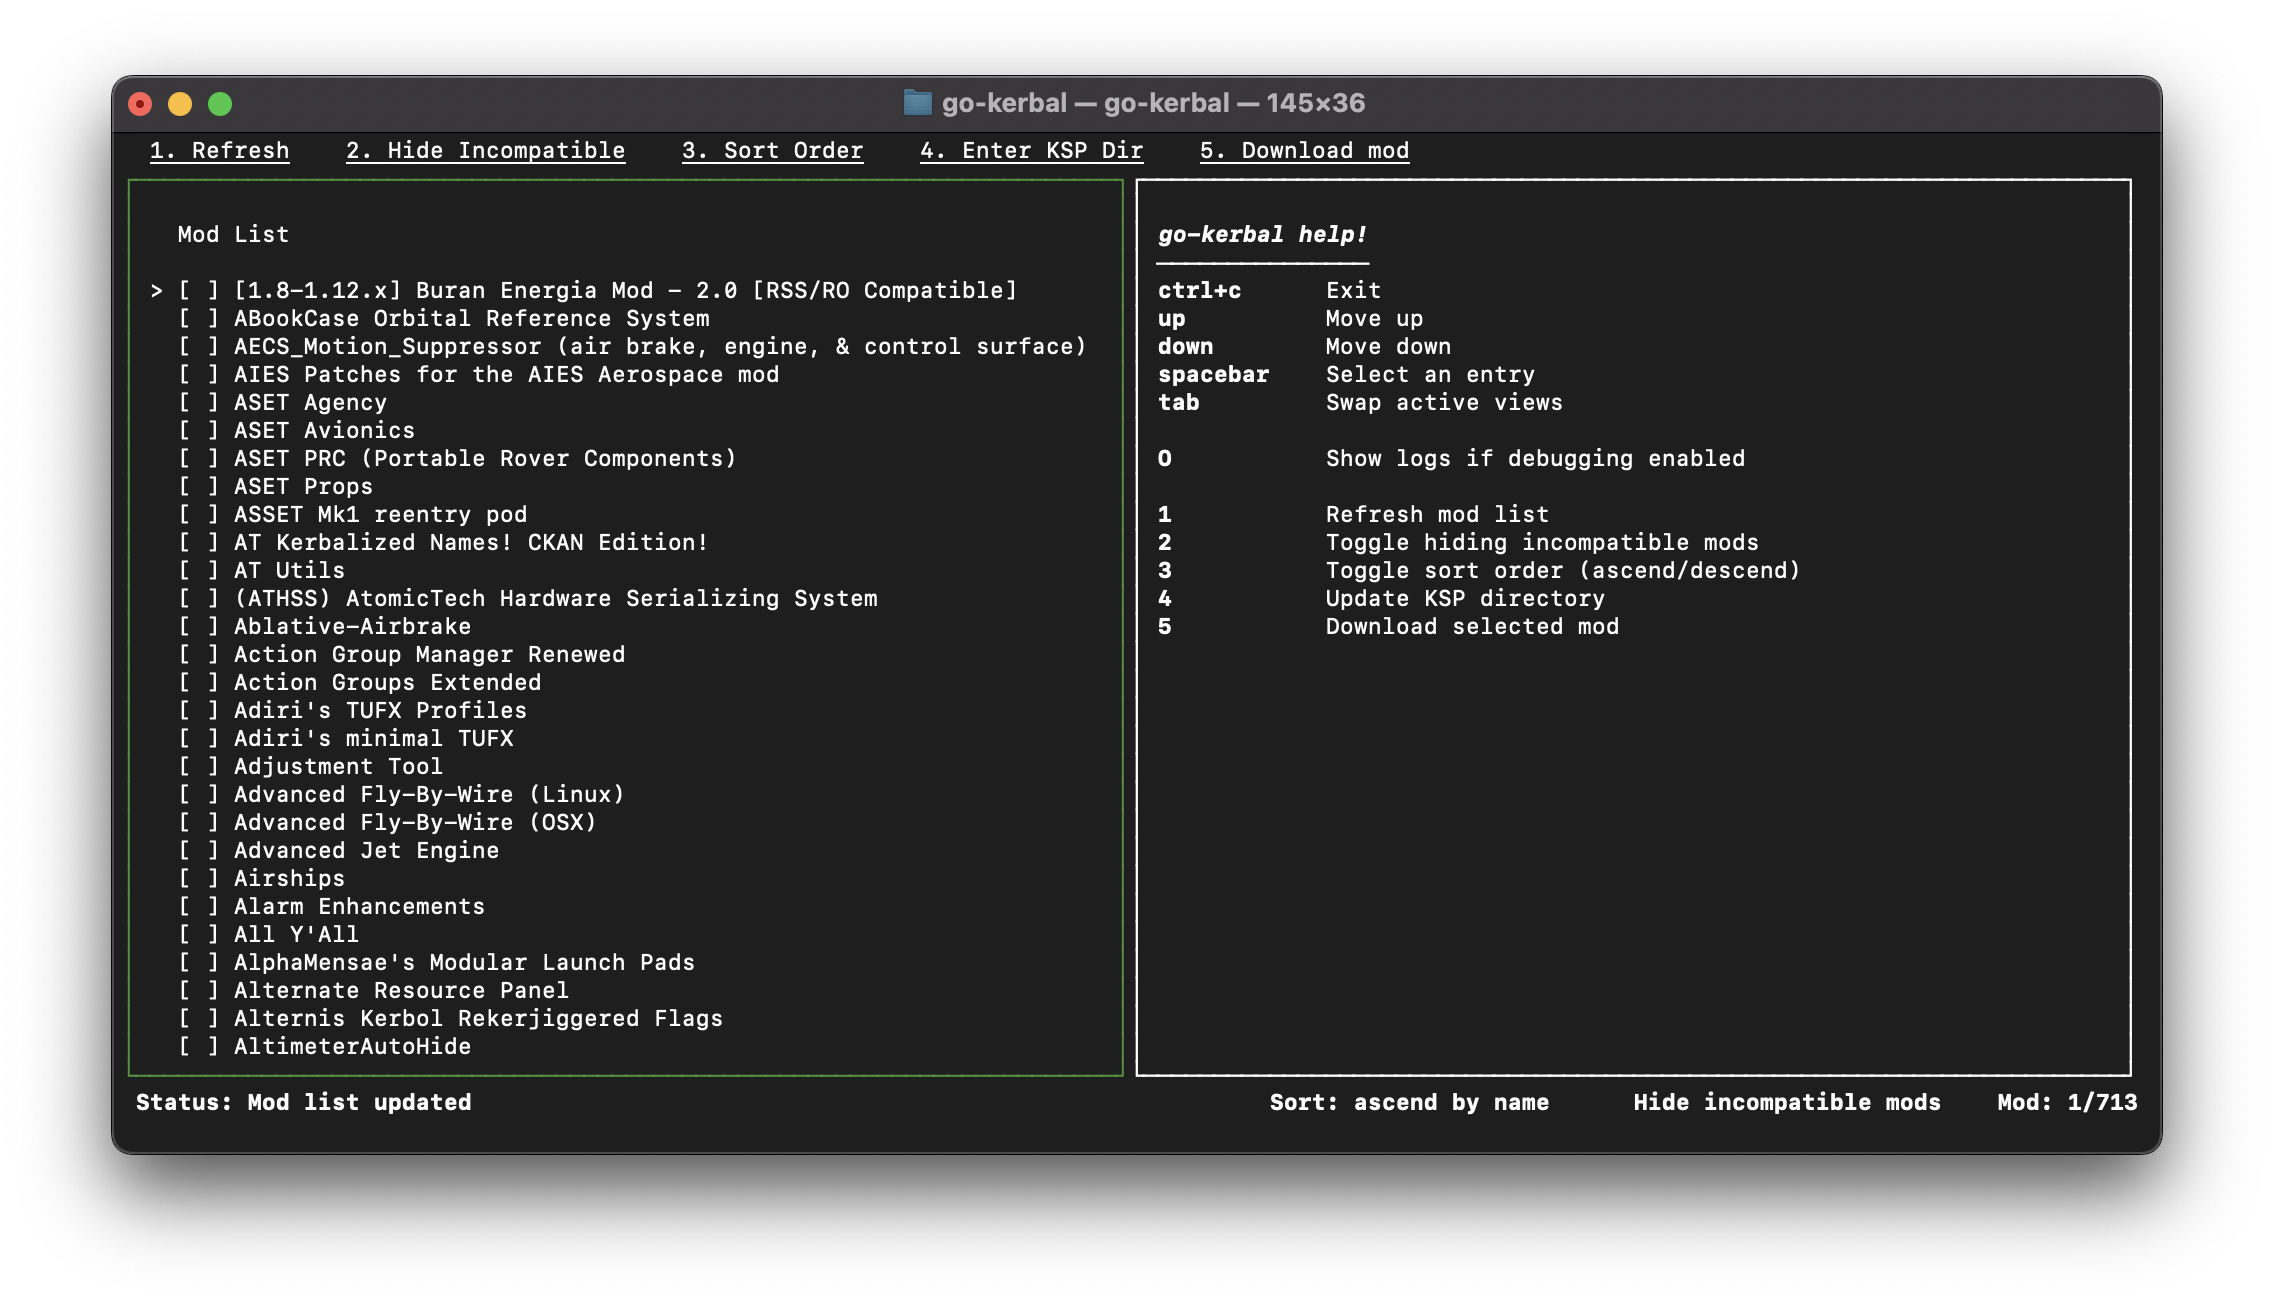
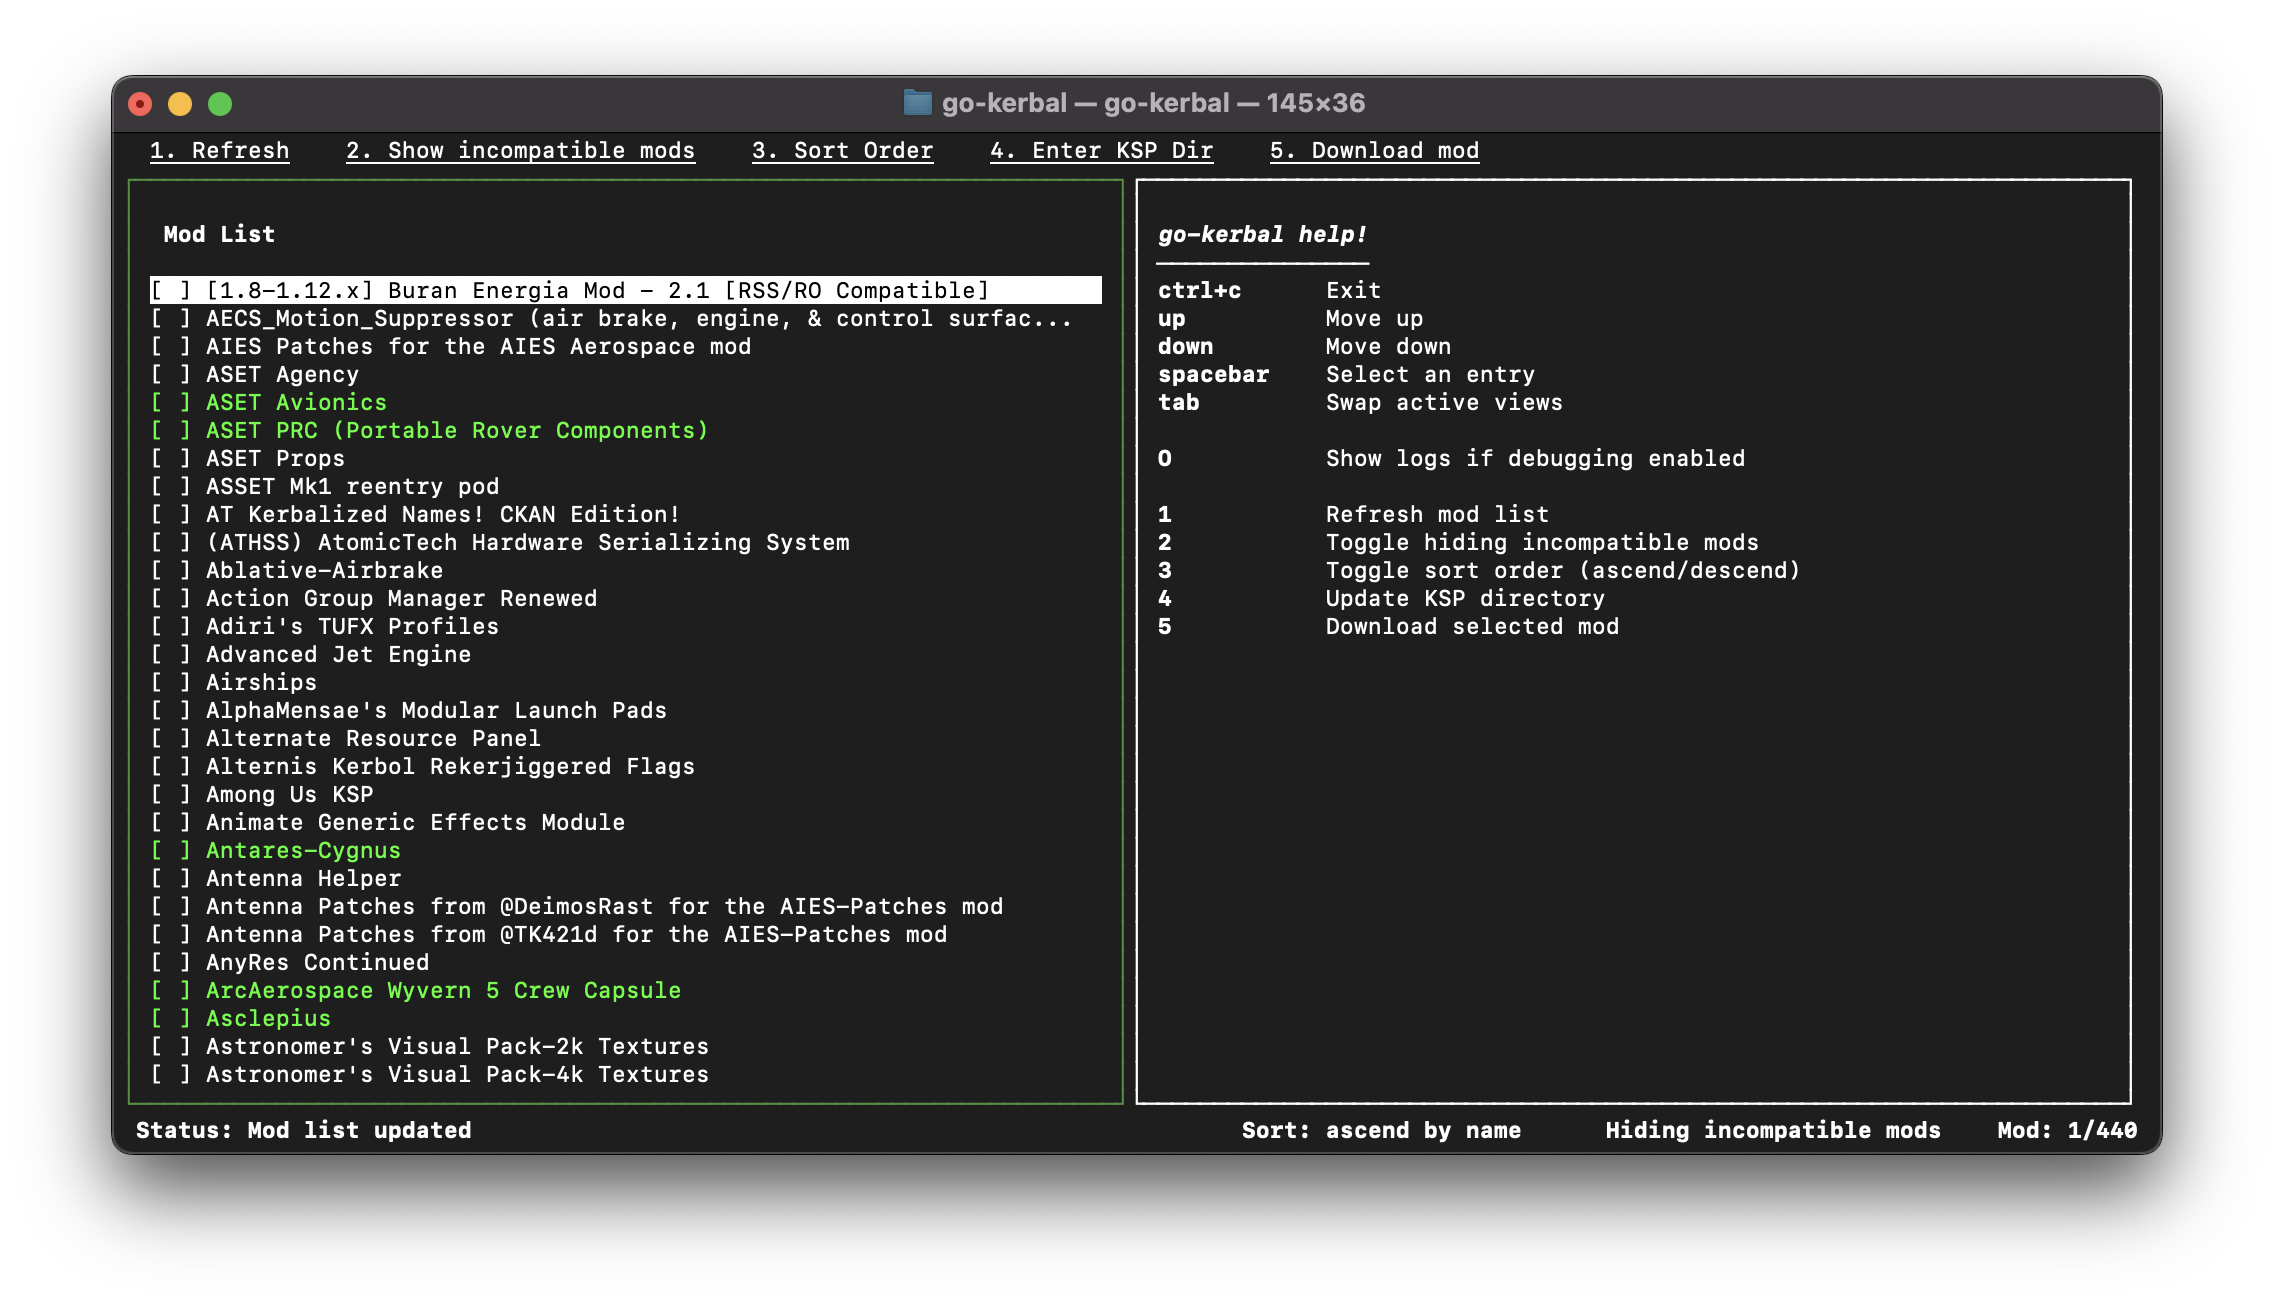
highlight installed mods in list

diff --git a/core/theme/theme.go b/core/theme/theme.go
@@ -4,12 +4,17 @@ import "github.com/charmbracelet/lipgloss"
 
 // Theme represents the properties that make up a theme.
 type Theme struct {
-	SelectedListItemColor                lipgloss.AdaptiveColor
-	UnselectedListItemColor              lipgloss.AdaptiveColor
+	// Light: black | Dark: white
+	SelectedListItemColor lipgloss.AdaptiveColor
+	// Light: white | Dark: black
+	UnselectedListItemColor lipgloss.AdaptiveColor
+	// Light: green | Dark: green
+	InstalledListItemColor lipgloss.AdaptiveColor
+	ActiveBoxBorderColor   lipgloss.AdaptiveColor
+	InactiveBoxBorderColor lipgloss.AdaptiveColor
+
 	SelectedTreeItemColor                lipgloss.AdaptiveColor
 	UnselectedTreeItemColor              lipgloss.AdaptiveColor
-	ActiveBoxBorderColor                 lipgloss.AdaptiveColor
-	InactiveBoxBorderColor               lipgloss.AdaptiveColor
 	SpinnerColor                         lipgloss.AdaptiveColor
 	StatusBarSelectedFileForegroundColor lipgloss.AdaptiveColor
 	StatusBarSelectedFileBackgroundColor lipgloss.AdaptiveColor
@@ -25,10 +30,12 @@ type Theme struct {
 
 // appColors contains the different types of colors.
 type appColors struct {
-	white              string
+	white string
+	black string
+	green string
+
 	darkGray           string
 	red                string
-	black              string
 	defaultPink        string
 	defaultLightPurple string
 	defaultDarkPurple  string
@@ -54,10 +61,12 @@ type appColors struct {
 
 // Colors contains the different kinds of colors and their values.
 var colors = appColors{
-	white:              "#FFFDF5",
+	white: "#FFFDF5",
+	black: "#000000",
+	green: "#00ff00",
+
 	darkGray:           "#3c3836",
 	red:                "#cc241d",
-	black:              "#000000",
 	defaultPink:        "#F25D94",
 	defaultLightPurple: "#A550DF",
 	defaultDarkPurple:  "#6124DF",
@@ -84,12 +93,14 @@ var colors = appColors{
 // themeMap represents the mapping of different themes.
 var themeMap = map[string]Theme{
 	"default": {
-		SelectedListItemColor:                lipgloss.AdaptiveColor{Dark: colors.white, Light: colors.black},
-		UnselectedListItemColor:              lipgloss.AdaptiveColor{Dark: colors.black, Light: colors.white},
+		SelectedListItemColor:   lipgloss.AdaptiveColor{Dark: colors.white, Light: colors.black},
+		UnselectedListItemColor: lipgloss.AdaptiveColor{Dark: colors.black, Light: colors.white},
+		InstalledListItemColor:  lipgloss.AdaptiveColor{Dark: colors.green, Light: colors.green},
+		ActiveBoxBorderColor:    lipgloss.AdaptiveColor{Dark: colors.holidayGreen, Light: colors.holidayGreen},
+		InactiveBoxBorderColor:  lipgloss.AdaptiveColor{Dark: colors.white, Light: colors.black},
+
 		SelectedTreeItemColor:                lipgloss.AdaptiveColor{Dark: colors.defaultPink, Light: colors.defaultPink},
 		UnselectedTreeItemColor:              lipgloss.AdaptiveColor{Dark: colors.white, Light: colors.black},
-		ActiveBoxBorderColor:                 lipgloss.AdaptiveColor{Dark: colors.holidayGreen, Light: colors.holidayGreen},
-		InactiveBoxBorderColor:               lipgloss.AdaptiveColor{Dark: colors.white, Light: colors.black},
 		SpinnerColor:                         lipgloss.AdaptiveColor{Dark: colors.defaultPink, Light: colors.defaultPink},
 		StatusBarSelectedFileForegroundColor: lipgloss.AdaptiveColor{Dark: colors.white, Light: colors.white},
 		StatusBarSelectedFileBackgroundColor: lipgloss.AdaptiveColor{Dark: colors.defaultPink, Light: colors.defaultPink},

diff --git a/core/tui/view.go b/core/tui/view.go
@@ -100,23 +100,26 @@ func (b Bubble) modListView() string {
 			checked = "x"
 		}
 
+		line := truncate.StringWithTail(
+			fmt.Sprintf("[%s] %s", checked, b.registry.SortedModList[i].Name),
+			uint(b.primaryViewport.Width-2),
+			"...")
+
 		if b.nav.listCursor == i {
 			s += lipgloss.NewStyle().
 				Background(b.theme.SelectedListItemColor).
 				Foreground(b.theme.UnselectedListItemColor).
 				Width(b.primaryViewport.Width).
-				Render(truncate.StringWithTail(
-					fmt.Sprintf("[%s] %s", checked, b.registry.SortedModList[i].Name),
-					uint(b.primaryViewport.Width-2),
-					"..."),
-				)
+				Render(line)
 		} else {
-			s += lipgloss.NewStyle().
-				Render(truncate.StringWithTail(
-					fmt.Sprintf("[%s] %s", checked, b.registry.SortedModList[i].Name),
-					uint(b.primaryViewport.Width-2),
-					"..."),
-				)
+			if b.registry.SortedModList[i].Installed {
+				s += lipgloss.NewStyle().
+					Foreground(b.theme.InstalledListItemColor).
+					Render(line)
+			} else {
+				s += lipgloss.NewStyle().
+					Render(line)
+			}
 		}
 		s += "\n"
 	}

diff --git a/README.md b/README.md
@@ -24,10 +24,12 @@ go build && ./go-kerbal
 ![Input Directory View](https://github.com/jedwards1230/go-kerbal/blob/main/screenshots/inputDir.png?raw=true)
 
 ## TODO:
+ * KSP repair script
+ * Reliable way to find current KSP version
+ * More precise install functions/validation
  * More metadata cleaning
  * Check mod conflicts/dependencies 
  * Implement search box
- * Make the TUI prettier
  * Tweak the TUI
    * More colors
    * Multi-select mods
